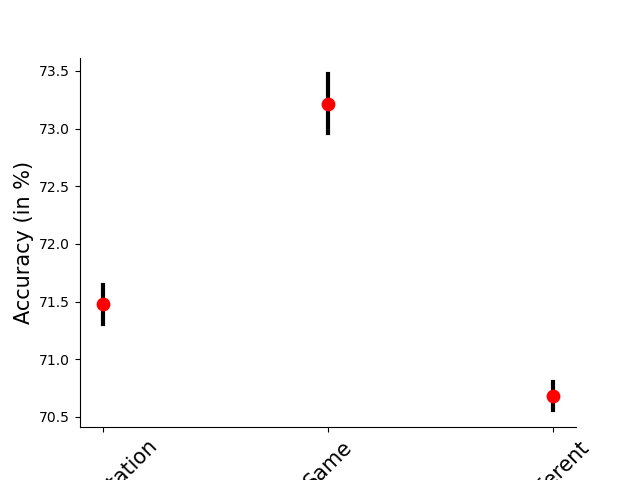
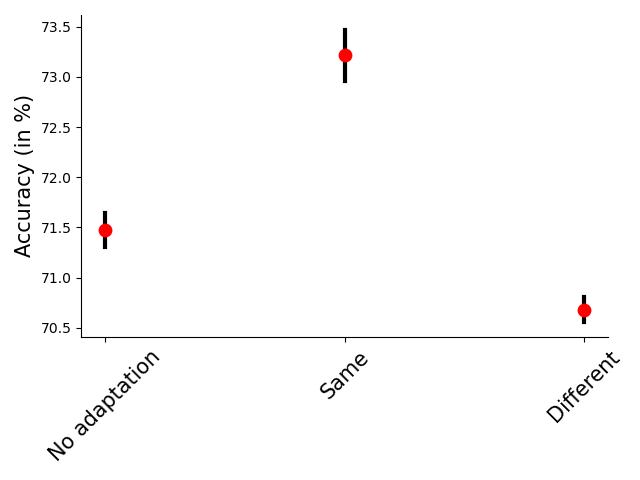
irf curves

diff --git a/visualize_model_performance_sep.py b/visualize_model_performance_sep.py
@@ -1,7 +1,6 @@
 # %%
 
 import torch
-import re
 print('\n', 'GPU available: ', torch.cuda.is_available(), '\n')
 import numpy as np
 from torch import optim
@@ -13,8 +12,8 @@ import matplotlib.pyplot as plt
 import math
 
 # import required script
-from models.cnn_feedforward import cnn_feedforward
-from models.cnn_feedforward_exp_decay import cnn_feedforward_exp_decay
+# from models.cnn_feedforward import cnn_feedforward
+# from models.cnn_feedforward_exp_decay import cnn_feedforward_exp_decay
 from utils.noiseMNIST_dataset import noiseMNIST_dataset
 from utils.functions import *
 import neptune.new as neptune
@@ -25,24 +24,22 @@ startTime = time.time()
 # define root
 linux = True # indicates whether script is run on mac or linux
 if linux:
-    dir = '/home/amber/ownCloud/'
-else:
-    dir = '/Users/a.m.brandsuva.nl/surfdrive/'
+    dir = '/home/amber/OneDrive/code/git_nAdaptation_DNN/'
 
 # noise labels
 noise_labels = ['No adaptation', 'Same', 'Different']
 contrast = 'lcontrast'
 
 # load accuracies with random initializations
-accu_no = torch.load(dir+'Documents/code/nAdaptation_DNN/accu/feedforward_same_' + contrast)
+accu_no = torch.load(dir+'accu/feedforward_same_' + contrast)
 accu_no_mean = torch.mean(accu_no)*100
 accu_no_std = torch.std(accu_no)/math.sqrt(len(accu_no))*100
 
-accu_same = torch.load(dir+'Documents/code/nAdaptation_DNN/accu/feedforward_exp_decay_same_' + contrast)
+accu_same = torch.load(dir+'accu/feedforward_exp_decay_same_' + contrast)
 accu_same_mean = torch.mean(accu_same)*100
 accu_same_std = torch.std(accu_same)/math.sqrt(len(accu_same))*100
 
-accu_different = torch.load(dir+'Documents/code/nAdaptation_DNN/accu/feedforward_exp_decay_different_' + contrast)
+accu_different = torch.load(dir+'accu/feedforward_exp_decay_different_' + contrast)
 accu_diff_mean = torch.mean(accu_different)*100
 accu_diff_std = torch.std(accu_different)/math.sqrt(len(accu_different))*100
 
@@ -64,6 +61,6 @@ ax.set_ylabel('Accuracy (in %)', fontsize=15)
 ax.spines['right'].set_visible(False)
 ax.spines['top'].set_visible(False)
 
-
-plt.savefig(dir+'Documents/code/nAdaptation_DNN/visualizations/test_performance_' + contrast) # + '.svg', format='svg')
+plt.tight_layout()
+plt.savefig(dir+'visualizations/test_performance_' + contrast) # + '.svg', format='svg')
 plt.show()

diff --git a/models/utils.py b/models/utils.py
@@ -1,0 +1,77 @@
+import torch
+# print('\n', 'GPU available: ', torch.cuda.is_available(), '\n')
+import torch.nn as nn
+import numpy as np
+import math
+
+
+def h1(tau1, t_steps, sample_rate, b, c, w, h):
+
+    # preprocess tensors
+    input = torch.arange(t_steps)/sample_rate
+    input = input.repeat(b*c*w*h, 1)
+    print(input.shape)
+    tau1_resh = torch.transpose(tau1.reshape(c*w*h).repeat(b).repeat(t_steps, 1), 0, 1)
+    print(tau1_resh.shape)
+
+    # compute impulse response function
+    y = input * torch.exp(-input/tau1_resh)
+
+    return y.transpose(0,1).reshape(t_steps, b, c, w, h)
+
+
+def h2(tau2, sample_rate, t_steps, b, c, w, h):
+
+    # preprocess tensors
+    input = torch.arange(t_steps)/sample_rate
+    input = input.repeat(b*c*w*h, 1)
+    print(input.shape)
+    tau2_resh = torch.transpose(tau2.reshape(c*w*h).repeat(b).repeat(t_steps, 1), 0, 1)
+    print(tau2_resh.shape)
+
+    # compute impulse response function
+    y = torch.exp(-input/tau2_resh)
+
+    return y.transpose(0,1).reshape(t_steps, b, c, w, h)
+
+def torch_convolve(x, y, b, c, w, h, n, t_steps, t_current, true=False):
+
+    # preprocess
+    x_resh = x.reshape(t_steps, b*c*w*h)
+    y_resh = y.reshape(t_steps, b*c*w*h)
+
+    # remake irf
+    y_shift = torch.zeros(t_steps, b*c*w*h)
+    y_shift[-t_current:, :] = y_resh[:t_current, :] 
+
+    n_resh = n.reshape(c*w*h).repeat(b)
+
+    # sliding dot product
+    cv = torch.tensordot(x_resh, y_shift)
+
+    output = cv**n_resh
+
+    return output.reshape(b, c, w, h)
+
+def torch_convolve_norm(x, y, b, c, w, h, sigma, n, t_steps, t_current):
+
+    # preprocess
+    x_resh = x.reshape(t_steps, b*c*w*h)
+    y_resh = y.reshape(t_steps, b*c*w*h)
+
+    # remake irf
+    y_shift = torch.zeros(t_steps, b*c*w*h)
+    y_shift[-t_current:, :] = y_resh[:t_current, :] 
+
+    # reshape sigma
+    sigma_resh = sigma.reshape(c*w*h).repeat(b)
+    n_resh = n.reshape(c*w*h).repeat(b)
+
+    # sliding dot product
+    cv = torch.zeros(b*c*w*h)
+    for i in range(b*c*w*h):
+        cv[i] = torch.dot(x_resh[:, i], y_shift[:, i])
+
+    normrsp = torch.abs(cv)**n_resh + sigma_resh**n_resh
+
+    return cv.reshape(b, c, w, h), normrsp.reshape(b, c, w, h)

diff --git a/visualize_model_activations.py b/visualize_model_activations.py
@@ -12,7 +12,7 @@ import matplotlib.pyplot as plt
 
 # import required script
 from models.cnn_feedforward import cnn_feedforward
-from models.cnn_feedforward_exp_decay import cnn_feedforward_exp_decay
+# from models.cnn_feedforward_exp_decay import cnn_feedforward_exp_decay
 from models.cnn_feedforward_div_norm import cnn_feedforward_div_norm
 from utils.noiseMNIST_dataset import noiseMNIST_dataset
 from utils.functions import *

diff --git a/models/cnn_feedforward_div_norm.py b/models/cnn_feedforward_div_norm.py
@@ -1,7 +1,7 @@
 import torch
 # print('\n', 'GPU available: ', torch.cuda.is_available(), '\n')
 import os
-# print(os.getcwd())
+print(os.getcwd())
 import matplotlib.pyplot as plt
 
 import torch.nn as nn
